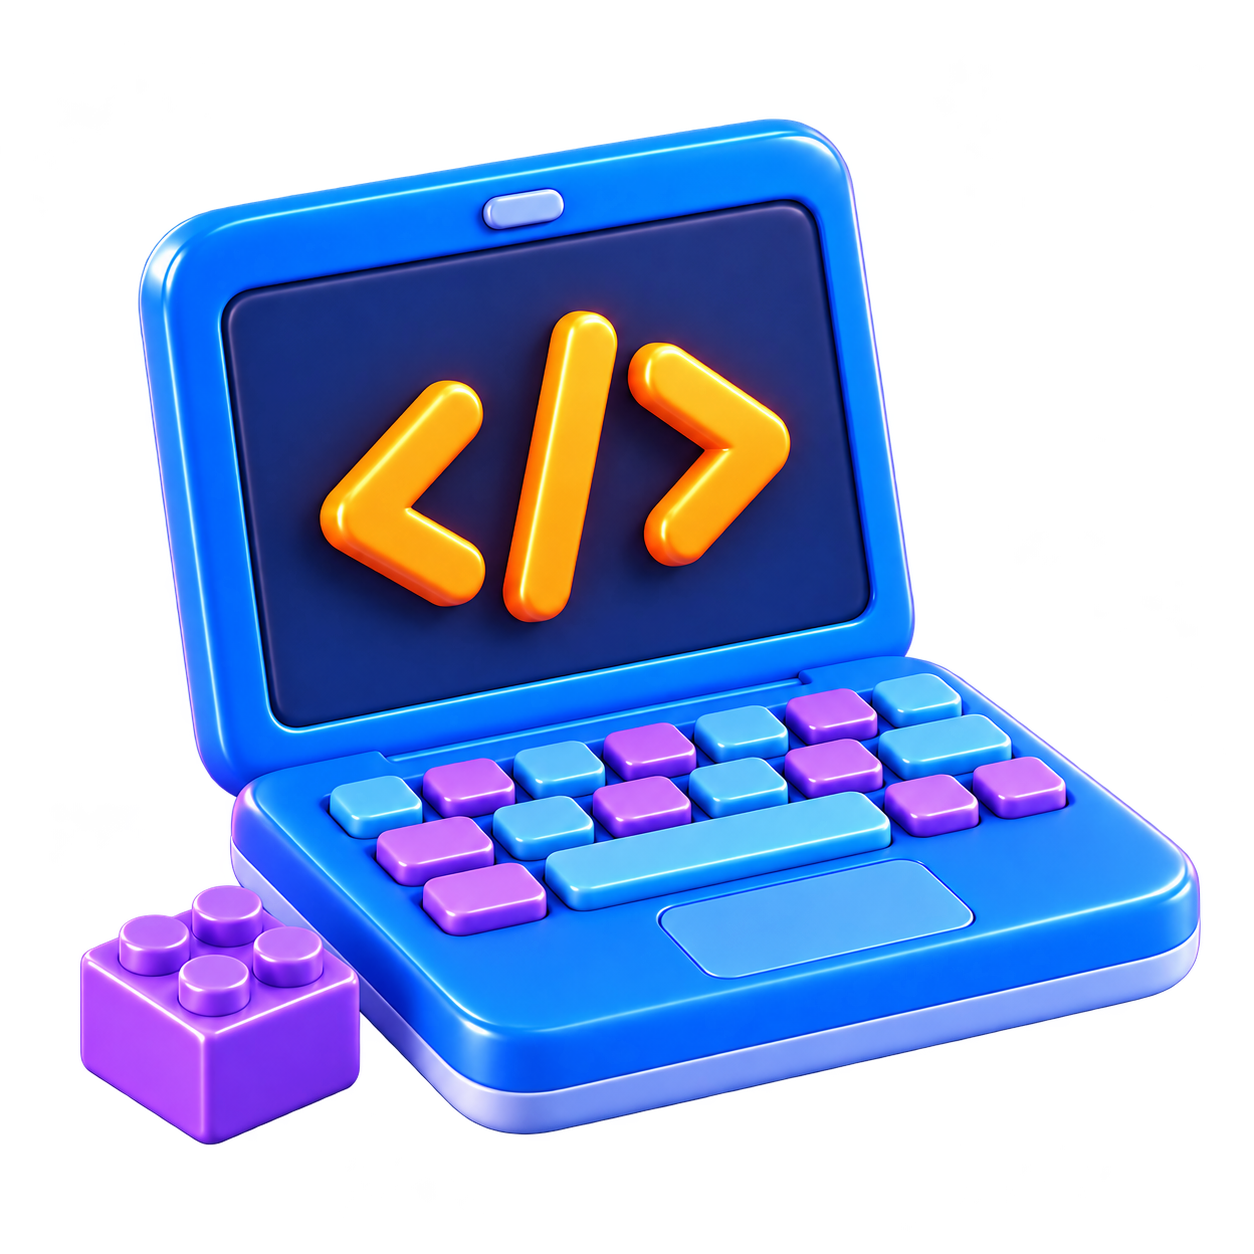
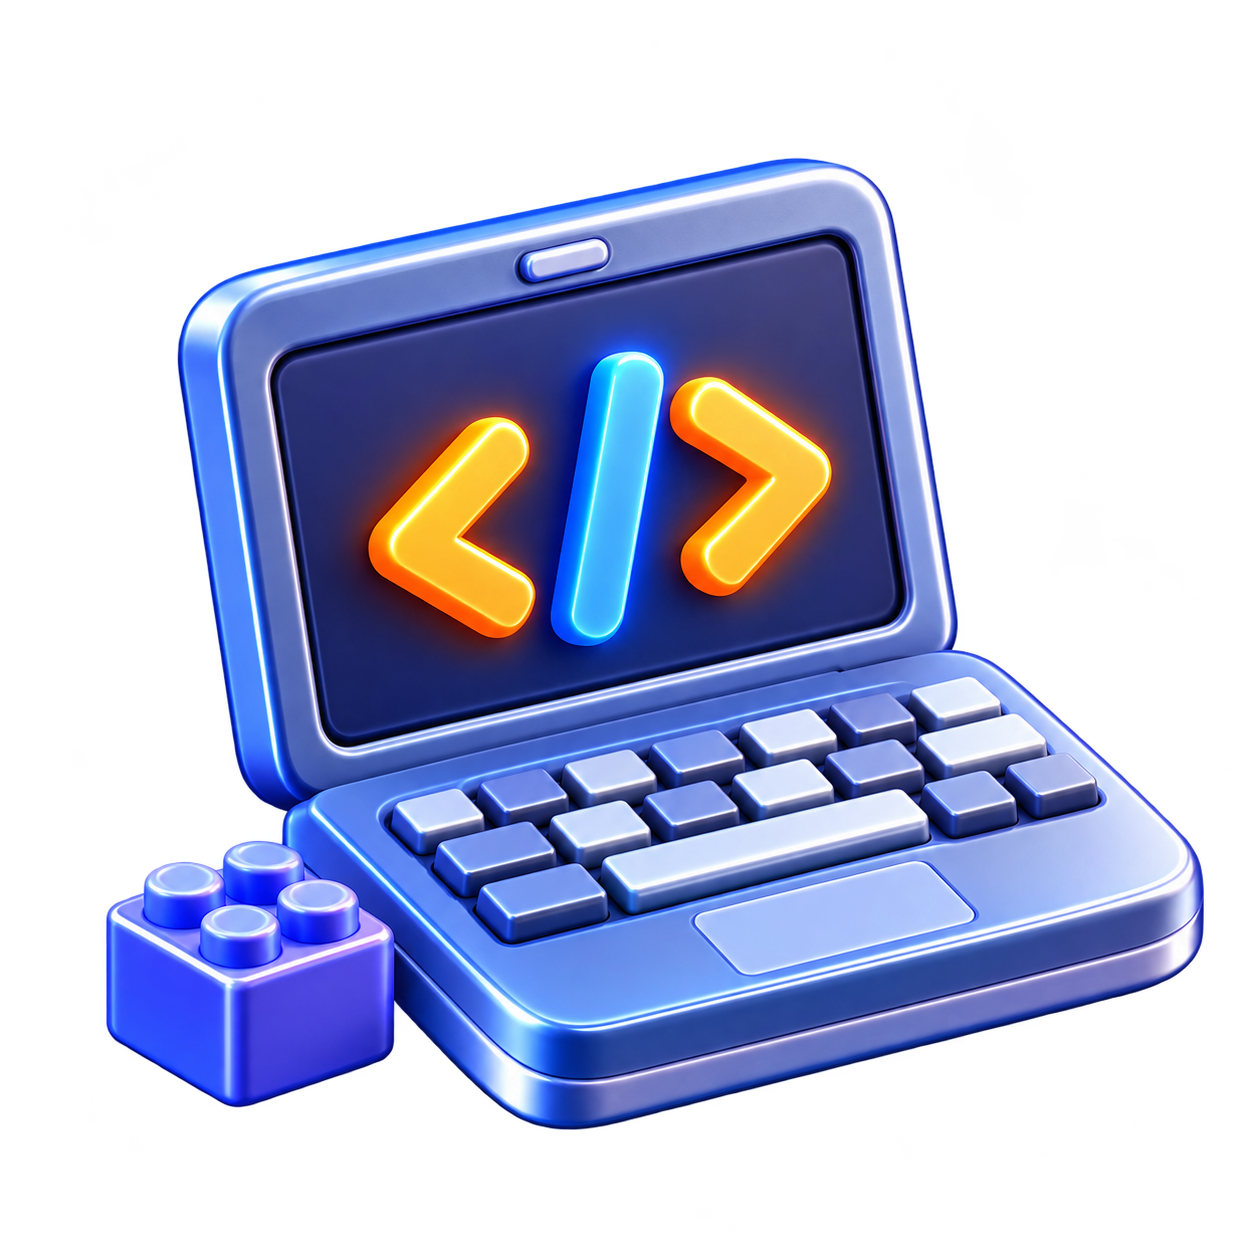
更新欢迎页流程卡片图标和色彩

diff --git a/web-app/public/welcome/home-features.css b/web-app/public/welcome/home-features.css
@@ -59,23 +59,23 @@ button:focus-visible { outline: 2px solid var(--primary); outline-offset: 3px; }
 /* Compact neutral stages within the original black header workflow surface. */
 .welcome-role-workflow { position: relative; z-index: 2; margin: -24px 0 0; padding: 40px 20px 20px; border-radius: var(--radius-xl); background: #111113; }
 .welcome-stage-grid { display: grid; grid-template-columns: repeat(3, minmax(0, 1fr)); gap: var(--space-4); }
-.welcome-stage { --stage-color: var(--foreground-secondary); position: relative; min-width: 0; min-height: 132px; box-sizing: border-box; padding: 12px 16px; border-radius: var(--radius-xl); background: var(--surface-2); color: var(--foreground); overflow: visible; transition: background .18s; }
-.welcome-stage:hover, .welcome-stage:focus-within { background: var(--surface-3); }
+.welcome-stage { --stage-color: var(--foreground-secondary); position: relative; min-width: 0; min-height: 132px; box-sizing: border-box; padding: 12px 16px; border: 1px solid transparent; border-radius: var(--radius-xl); background: var(--surface-2); color: var(--foreground); overflow: visible; transition: background .18s, border-color .18s, box-shadow .18s; }
+.welcome-stage:hover, .welcome-stage:focus-within { background: #242932; border-color: rgba(103,153,255,.58); box-shadow: 0 0 24px rgba(43,105,228,.16); }
 .welcome-stage-art { position: absolute; top: -22px; right: 8px; width: 88px; height: 88px; color: var(--stage-color); pointer-events: none; filter: drop-shadow(0 12px 8px rgba(0,0,0,.16)); }
-.welcome-stage-art img { display: block; width: 100%; height: 100%; object-fit: contain; filter: grayscale(1) brightness(.85); transition: filter .18s; }
-.welcome-stage:hover .welcome-stage-art img, .welcome-stage:focus-within .welcome-stage-art img { filter: grayscale(0) brightness(1); }
+.welcome-stage-art img { display: block; width: 100%; height: 100%; object-fit: contain; filter: saturate(.78) brightness(.88); transition: filter .18s; }
+.welcome-stage:hover .welcome-stage-art img, .welcome-stage:focus-within .welcome-stage-art img { filter: saturate(1.12) brightness(1.08) drop-shadow(0 0 8px rgba(54,125,255,.32)); }
 .welcome-stage-title { position: relative; font-size: 16px; font-weight: 600; margin: 0; max-width: calc(100% - 64px); line-height: 1.4; }
 .welcome-stage-description { font-size: 12px; line-height: 1.5; margin: 4px 0 12px; max-width: calc(100% - 60px); color: var(--foreground-secondary); min-height: 18px; }
 .welcome-stage-items { display: flex; gap: var(--space-3); flex-wrap: wrap; align-items: flex-start; }
 .welcome-stage-feature { display: inline-flex; flex-direction: row; align-items: center; gap: var(--space-2); width: auto; min-height: 44px; padding: 0; border: 0; background: transparent; color: inherit; font: inherit; cursor: pointer; text-decoration: none; }
-.welcome-stage-feature-icon { display: grid; place-items: center; width: 40px; height: 40px; flex-shrink: 0; border-radius: var(--radius-xl); background: var(--surface-3); color: var(--foreground); transition: background .15s, transform .15s; }
-.welcome-stage-feature-icon svg { width: 24px; height: 24px; color: var(--foreground-secondary); }
+.welcome-stage-feature-icon { display: grid; place-items: center; width: 40px; height: 40px; flex-shrink: 0; border-radius: var(--radius-xl); background: #29313d; color: var(--foreground); transition: background .15s, transform .15s, box-shadow .15s; }
+.welcome-stage-feature-icon svg { width: 24px; height: 24px; color: #a8cfff; }
 .welcome-stage-feature-label { display: flex; align-items: center; justify-content: flex-start; flex-wrap: wrap; max-width: 86px; text-align: left; gap: 4px; font-size: 13px; line-height: 1.5; }
 .welcome-stage:hover .welcome-stage-feature-icon,
-.welcome-stage:focus-within .welcome-stage-feature-icon { background: color-mix(in srgb, var(--surface-3) 85%, white); }
+.welcome-stage:focus-within .welcome-stage-feature-icon { background: #1249a7; box-shadow: 0 0 16px rgba(27,103,255,.24); }
 .welcome-stage:hover .welcome-stage-feature-icon svg,
-.welcome-stage:focus-within .welcome-stage-feature-icon svg { color: var(--foreground); }
-.welcome-stage-feature:not(:disabled):hover .welcome-stage-feature-icon { background: color-mix(in srgb, var(--surface-3) 76%, white); }
+.welcome-stage:focus-within .welcome-stage-feature-icon svg { color: #e5f2ff; }
+.welcome-stage-feature:not(:disabled):hover .welcome-stage-feature-icon { background: #1249a7; }
 .welcome-stage-feature:focus-visible { outline: 2px solid var(--primary); outline-offset: 5px; border-radius: var(--radius-xl); }
 .welcome-stage-feature:disabled { cursor: default; opacity: .66; }
 .welcome-stage-pending { font-size: 10px; opacity: .8; }

diff --git a/web-app/public/welcome/home-features.js b/web-app/public/welcome/home-features.js
@@ -58,12 +58,9 @@
           control.setAttribute('aria-label', item.name + '（在新标签页打开）');
           var external = document.createElement('span'); external.className = 'welcome-stage-external'; external.textContent = '↗'; external.setAttribute('aria-hidden', 'true'); label.appendChild(external);
         } else if (item.placeholder) {
-          control.disabled = true; control.title = item.external ? '发布组件外链待配置' : '社区工作台入口占位';
+          control.disabled = true; control.title = item.external ? '发布组件入口' : '社区工作台入口占位';
           if (item.external) {
             var externalHint = document.createElement('span'); externalHint.className = 'welcome-stage-external'; externalHint.textContent = '↗'; externalHint.setAttribute('aria-hidden', 'true'); label.appendChild(externalHint);
-          }
-          if (item.external) {
-            var status = document.createElement('span'); status.className = 'welcome-stage-pending'; status.textContent = '待配置链接'; label.appendChild(status);
           }
         } else {
           control.type = 'button'; control.addEventListener('click', function () { send({ type: 'ai-open-scenario', viewId: item.view }); });
